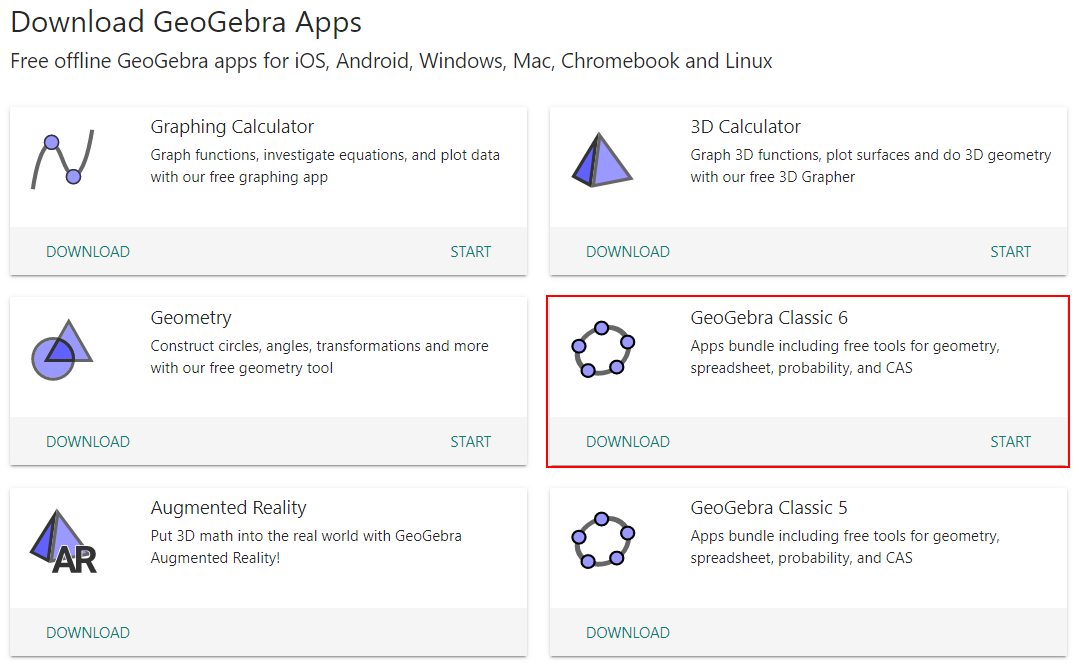
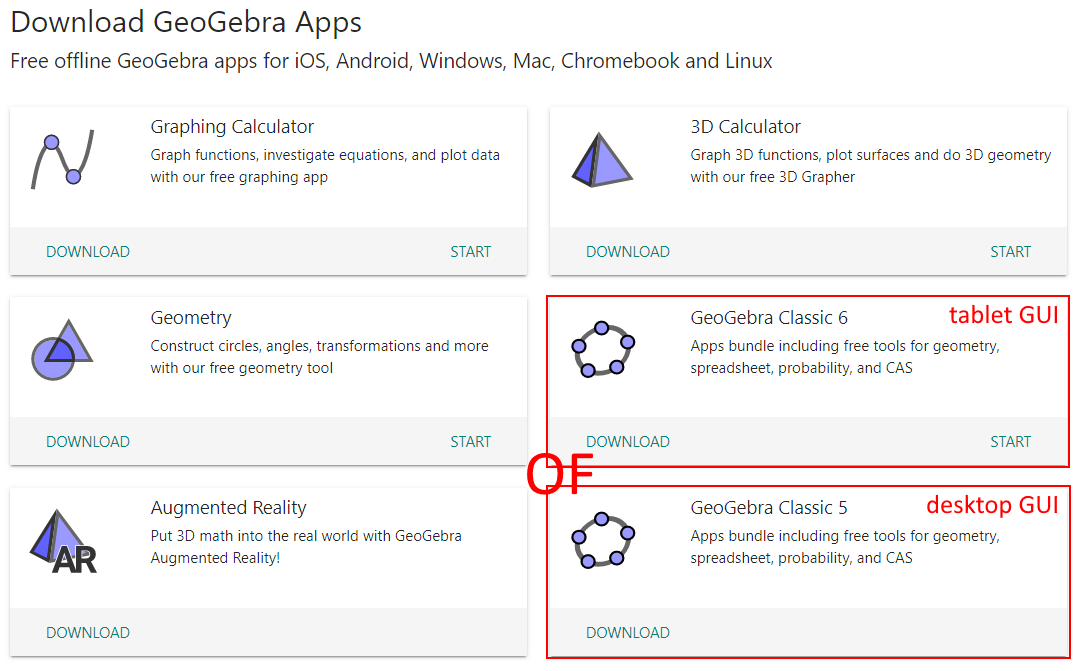
software/geogebra

diff --git a/software/geogebra/index.md b/software/geogebra/index.md
@@ -3,6 +3,11 @@ layout: default
 ---
 # GeoGebra
 
-Download [GeoGebra Classic 6](https://www.geogebra.org/download)
+Download [GeoGebra Classic](https://www.geogebra.org/download). Je kan kiezen tussen
+
+* GeoGebra Classic 5: de gebruikersinterface is geoptimiseerd voor PCs.
+* GeoGebra Classic 6: de gebruikersinterface is geoptimiseerd voor tablets.
+
+Functioneel zijn beide edities identiek.
 
 ![Download](download.png)
